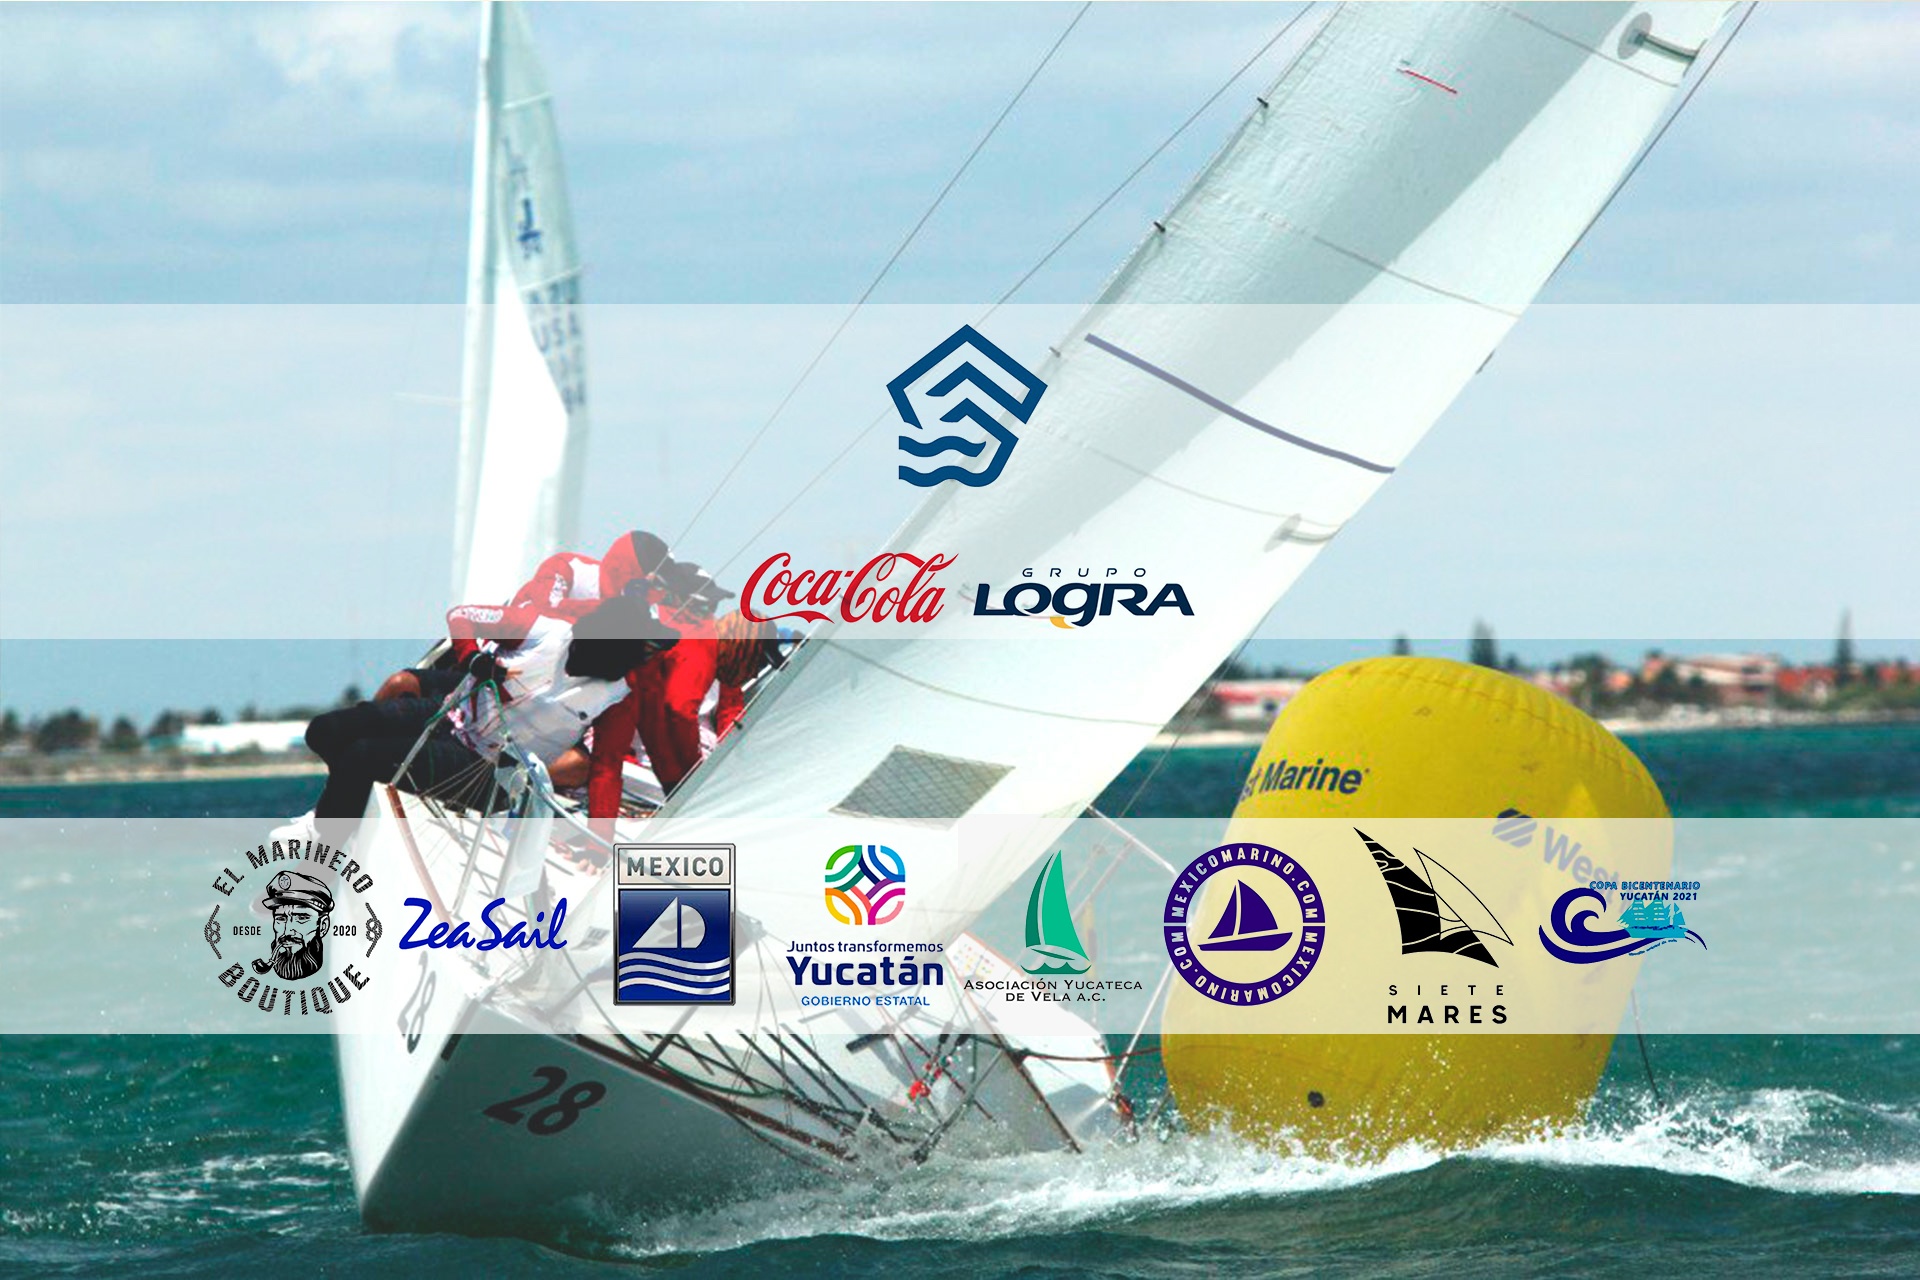
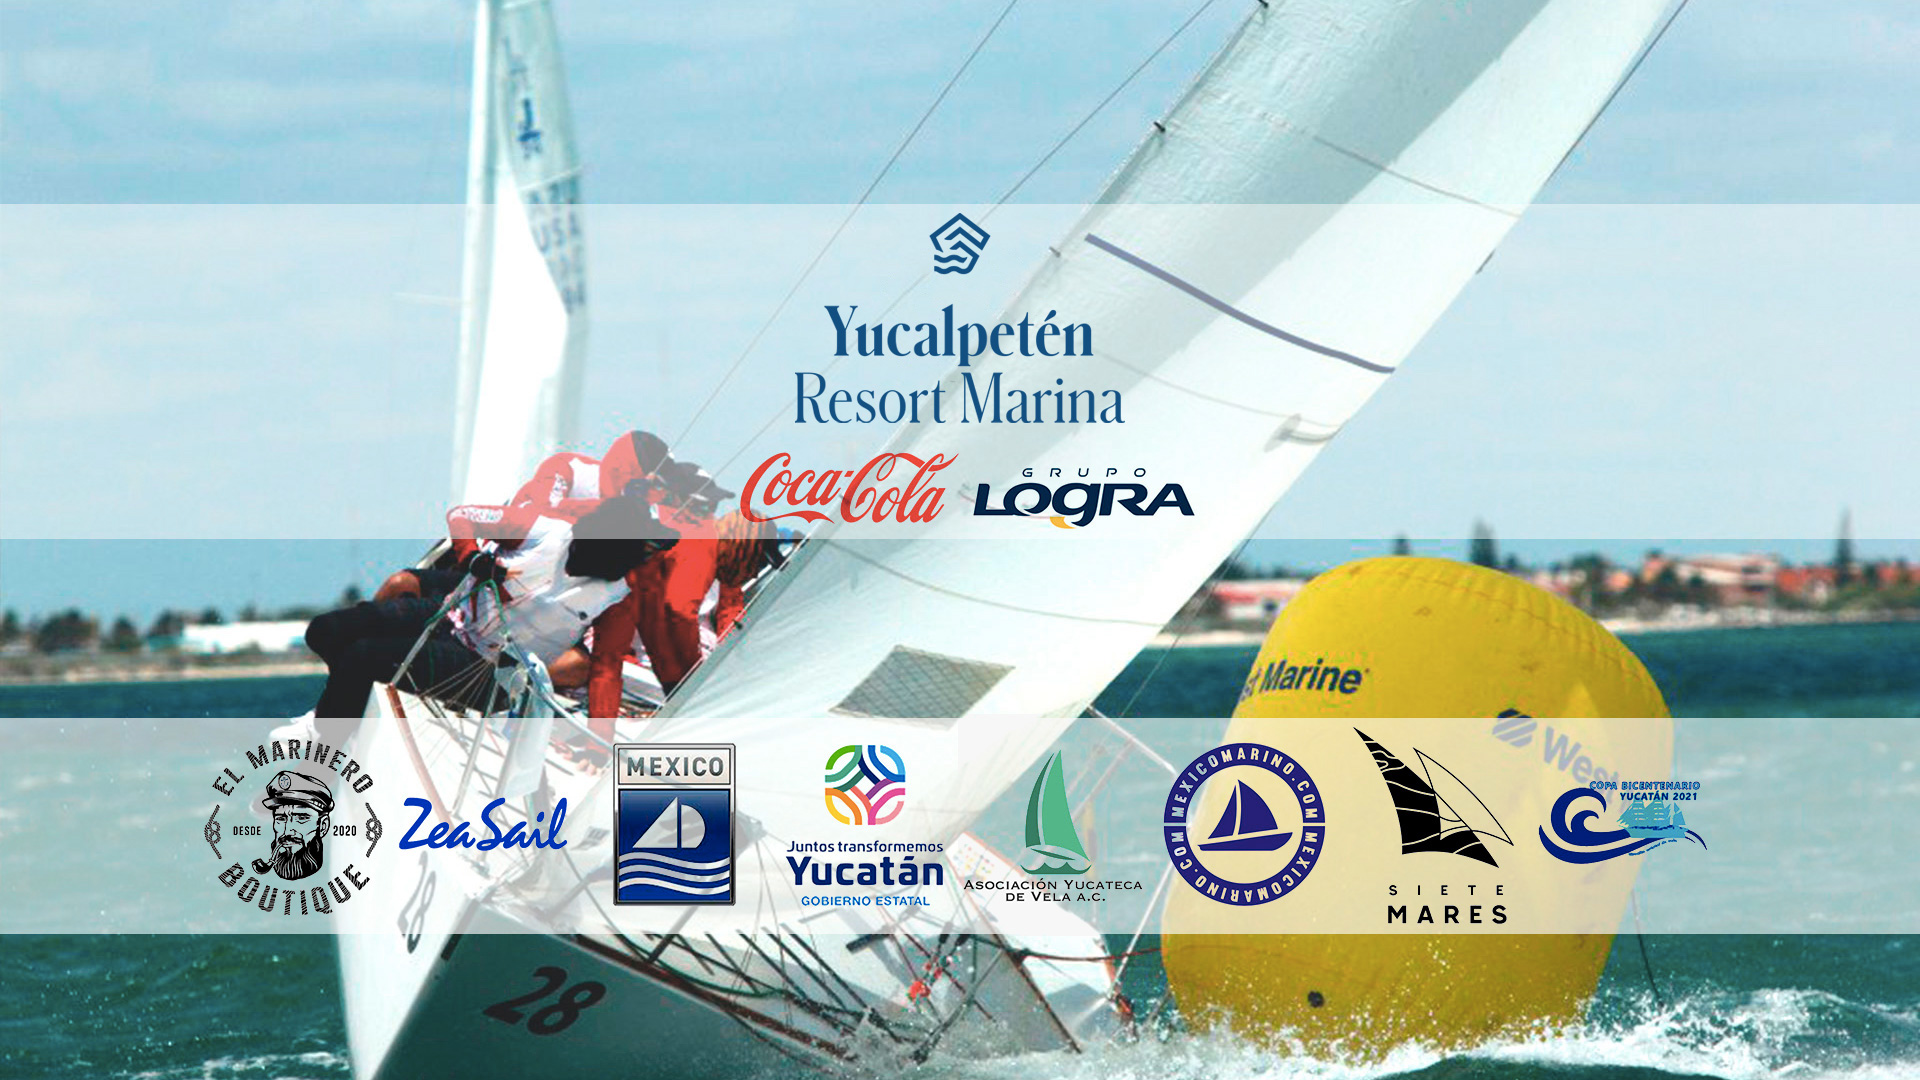
update

diff --git a/slider.php b/slider.php
@@ -1,0 +1,71 @@
+<div id="carouselExampleControls" class="carousel slide" data-ride="carousel">
+ 
+ <div class="carousel-inner">
+     <div class="carousel-item active">
+         <img src="assets/img/banner/main-slider1.jpg?v=1" class="d-block w-100" alt="img-1">
+        
+     </div>
+     <div class="carousel-item">
+         <img src="assets/img/banner/main-slider2.jpg" class="d-block w-100" alt="img-2">
+         
+     </div>
+     <div class="carousel-item">
+         <img src="assets/img/banner/main-slider3.jpg" class="d-block w-100" alt="img-3">
+         
+     </div>
+     
+ </div>
+ <button class="carousel-control-prev" type="button" data-bs-target="#carouselExampleControls" data-bs-slide="prev">
+    <span class="carousel-control-prev-icon" aria-hidden="true"></span>
+    <span class="visually-hidden">anterior</span>
+  </button>
+  <button class="carousel-control-next" type="button" data-bs-target="#carouselExampleControls" data-bs-slide="next">
+    <span class="carousel-control-next-icon" aria-hidden="true"></span>
+    <span class="visually-hidden">siguiente</span>
+  </button>
+</div>
+
+
+
+
+
+    <!--<div id="home" class="home-banner-area home-style-three">
+    <div class="container-fluid p-0">
+      <div class="banner-slider-three owl-carousel">
+        <div class="slider-item item-one">
+          <div class="container">
+            <div class="banner-content">
+            <span class="sub-title">Regata</span>
+                        <h1>
+                            COPA BICENTENARIO
+                        </h1>
+                        <p>
+                            "200 Años de la armada de México"
+                        </p>
+              <a href="copabicentenario2021/index.php" class="btn-primary">Registrarme</a>
+            </div>
+
+
+          
+          </div>
+        </div>
+        <div class="slider-item item-two">
+          <div class="container">
+          <div class="banner-content">
+            <span class="sub-title">Inscripción</span>
+                        <h1>
+                            al Club 2020
+                        </h1>
+                        <p>
+                            Para todas las embarcaciones que quieran navegar
+                        </p>
+              <a href="http://www.reactivacion.yucatan.gob.mx" class="btn-primary">Registro</a>
+          </div>
+        </div>
+       
+      </div>
+      
+    </div>
+  </div>-->
+
+
